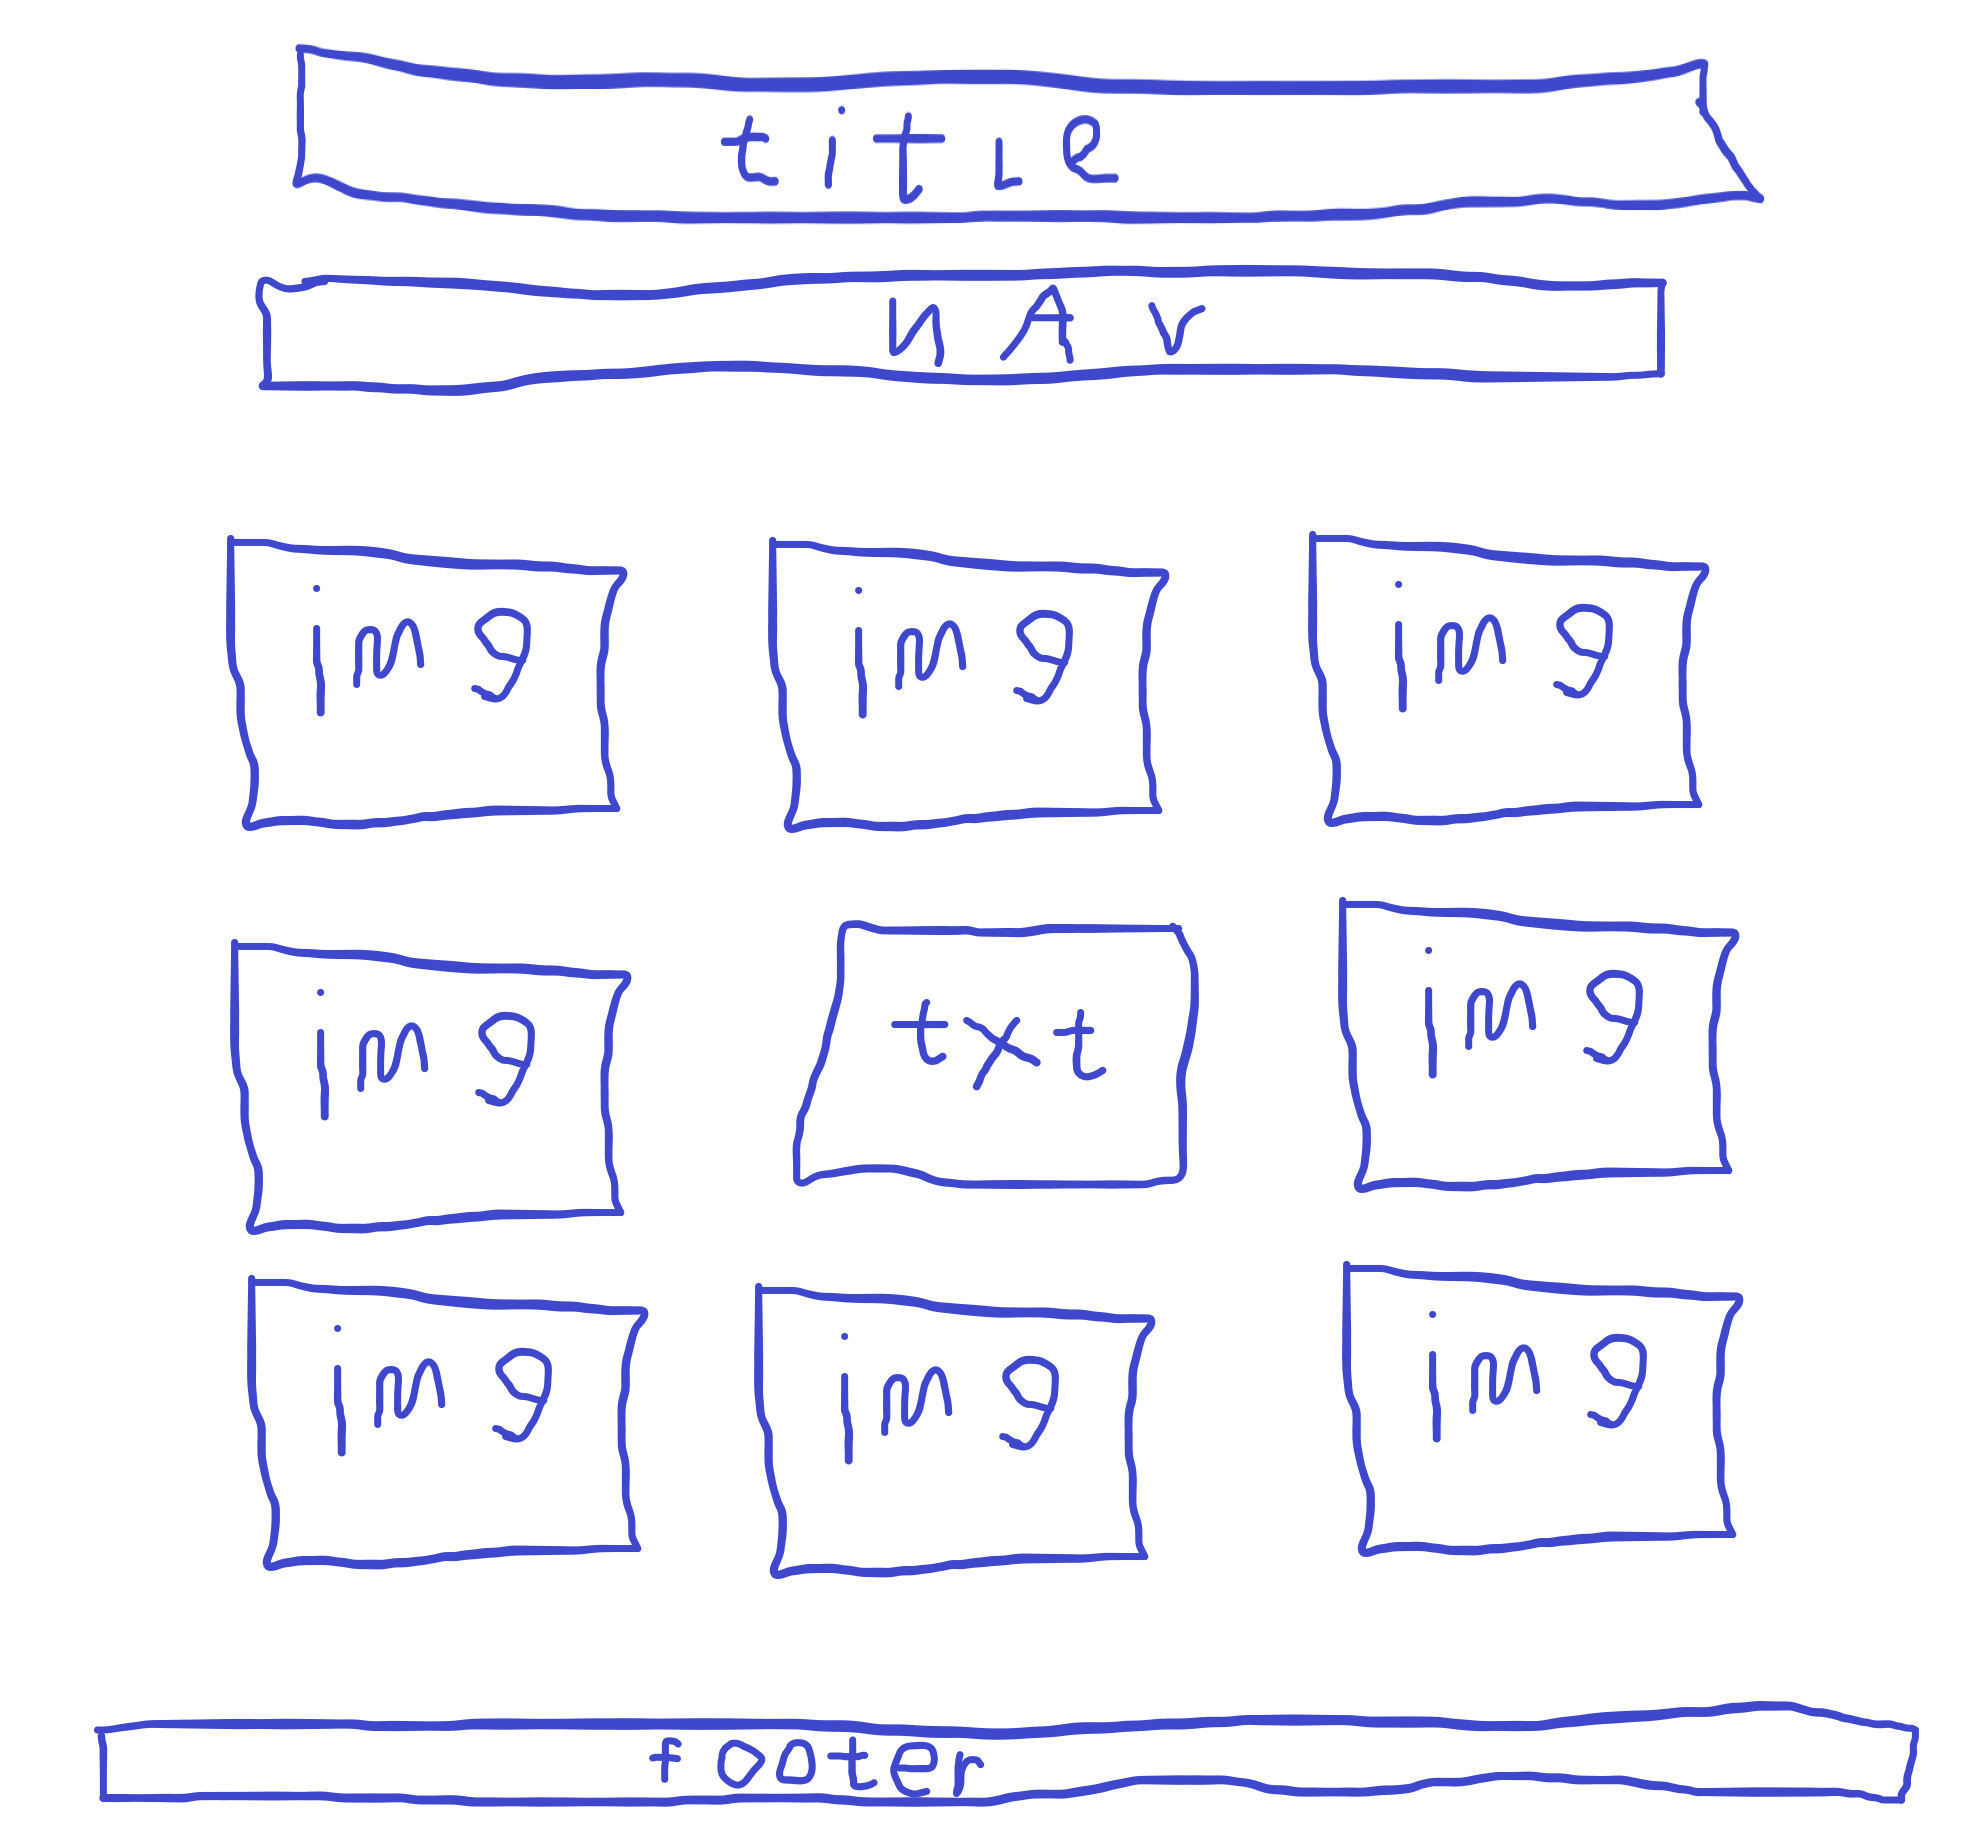
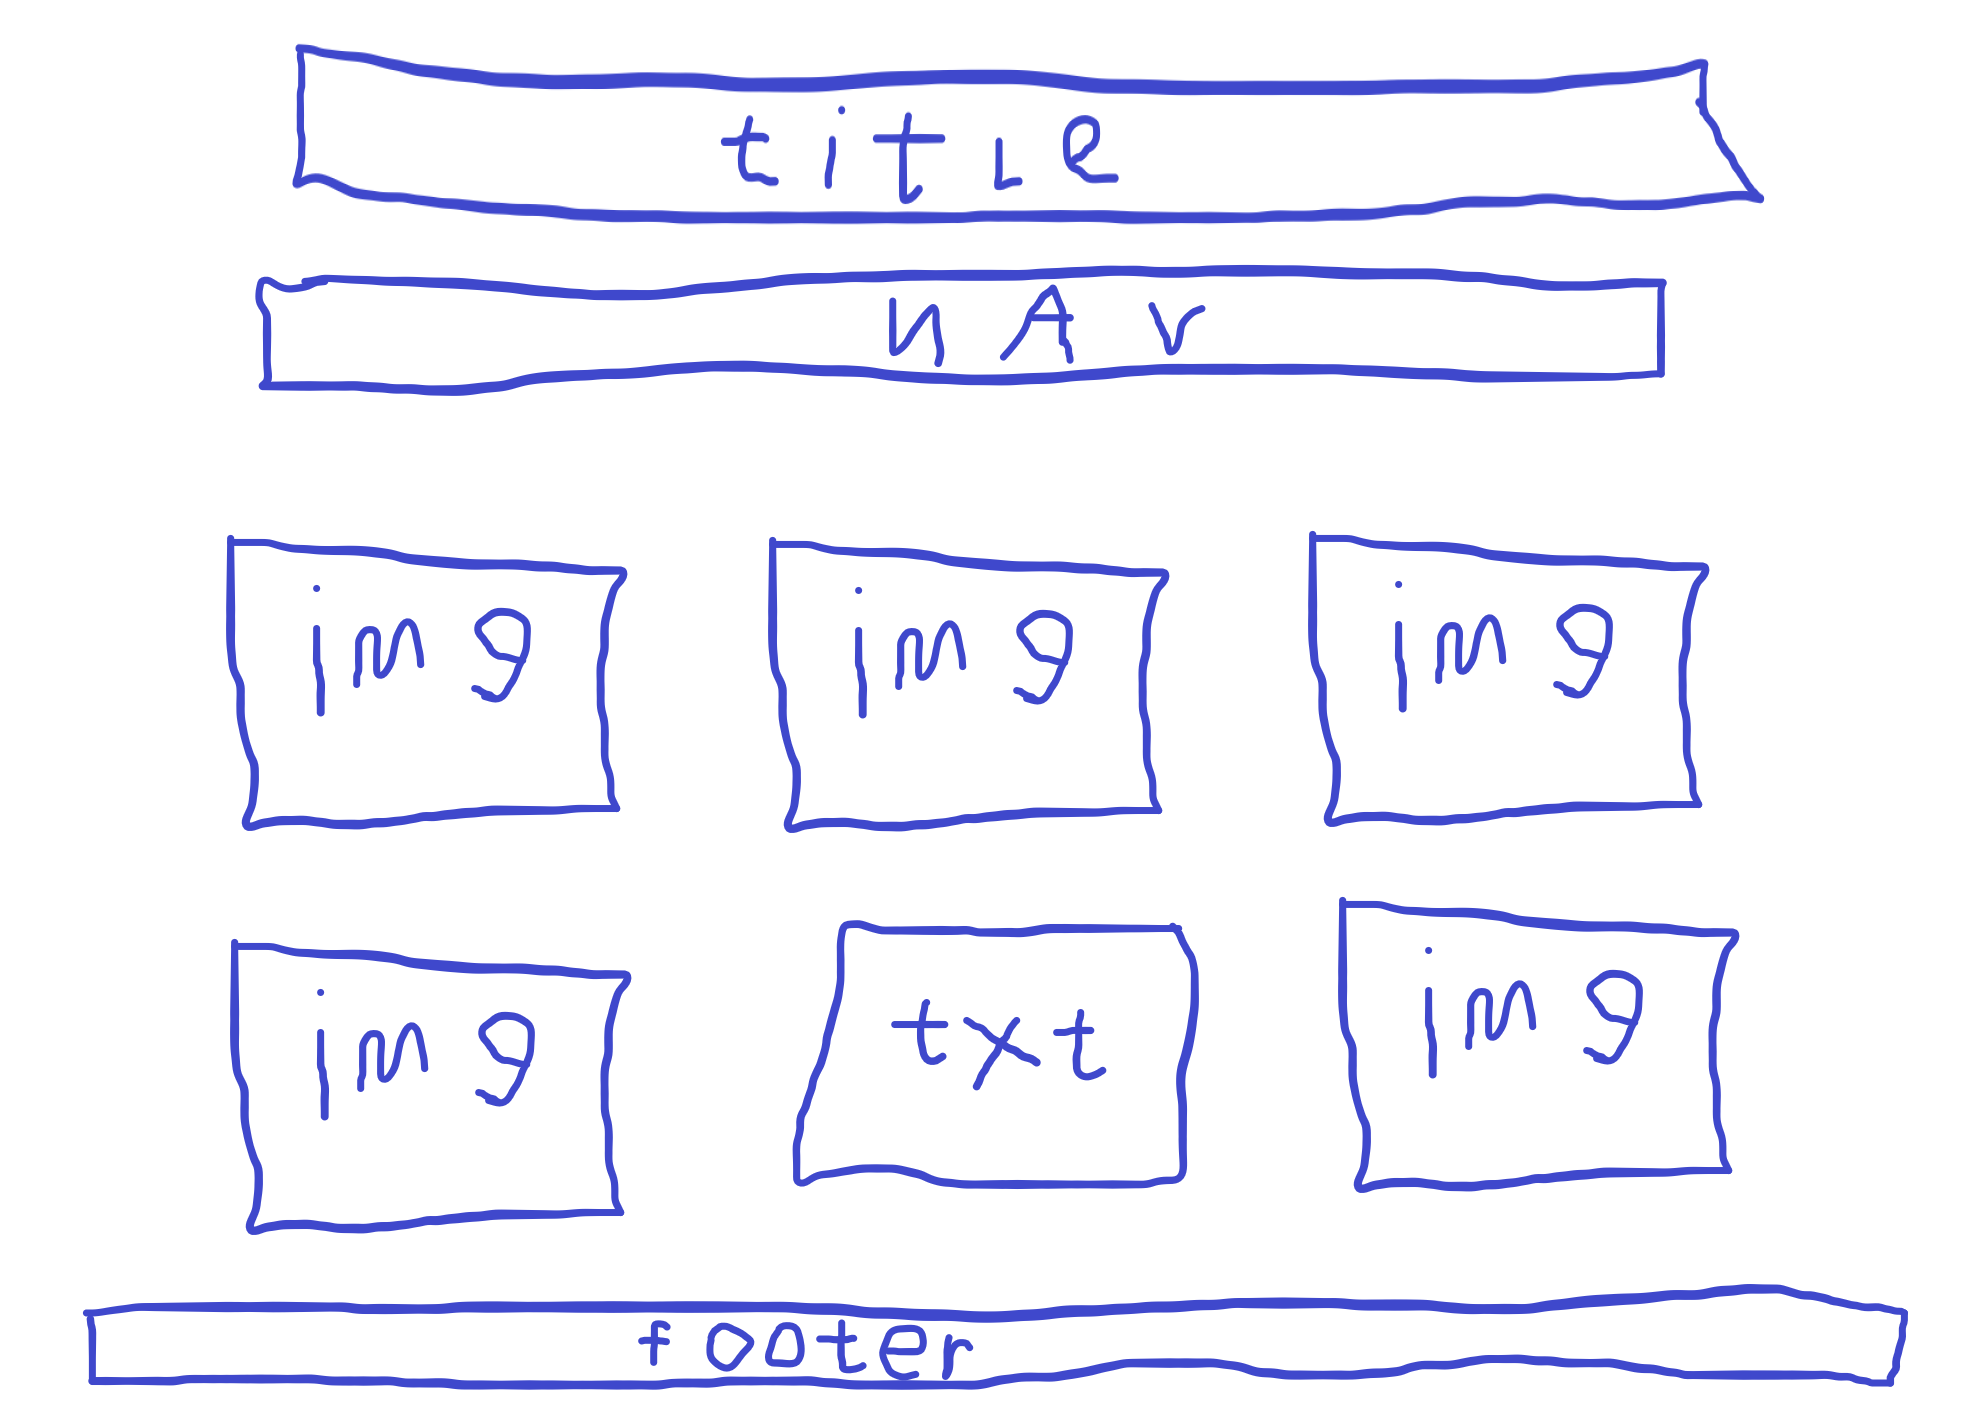
v4.9

Changed region(s): [[0.0932, 0.0, 0.9012, 0.8658], [0.0311, 0.8967, 0.9944, 0.9895], [0.0932, 0.6184, 0.3418, 0.8658]]

diff --git a/Happy Travel/access/css/main.css b/Happy Travel/access/css/main.css
@@ -5,7 +5,7 @@
 ::selection {
     background-color: rgba(88, 146, 255, 0.719);
 }
-.body_home, .body_ss {
+.body_home, .body_ss, #Contact body, .C_body {
     background-image: url("../img/bg_main/tropical_island_7-wallpaper-1920x1080.jpg");
     background-size: cover;
     background-size: auto;
@@ -34,7 +34,7 @@ p {
     background-color: rgba(245, 245, 245, 0.4);
     margin-bottom: 1.69%;
 }
-#Home .div1, .div2, .div3, .div4, .div5, .div6, #Stedentrips .div1, .div2, .div3, .div4, .div6 { /* Nav Div's + page control */
+.div1, #Home .div2, .div3, .div4, .div5, .div6, #Stedentrips .div1, .div2, .div3, .div4, .div6 { /* Nav Div's + page control */
     display: flex;
     color: white;
     text-shadow: 3px 3px 3px black;
@@ -61,7 +61,7 @@ p {
 a:link, a:visited, a:hover, a:active {
     text-decoration: none;
 }
- #Home a:hover, #Stedentrips a:hover {
+ #Home a:hover, #Stedentrips a:hover, #Contact a:hover {
     background-color: rgba(74, 74, 255, 0.863);
 }
 .mini_content { /* Mini Content */
@@ -71,8 +71,11 @@ a:link, a:visited, a:hover, a:active {
     justify-content: center;
     align-items: center;
 }
-.mini_content, .thumb_txt, .mini_img_txt_home, .main_content_ss_2 { /* Background-color text fields */
+.mini_content, .thumb_txt, .mini_img_txt_home, .main_content_ss_2, .mini_content_ss_mobile_box { /* Background-color text fields */
     background-color: rgba(0, 0, 0, 0.336);
+}
+.ss_imgs_mobile {
+    background-color: rgba(0, 0, 0, 0);
 }
 .mini_content_txt_big, .mini_content_txt_medium, #mini_content_ss {
     font-size: 1.6vw;
@@ -159,28 +162,37 @@ a:link, a:visited, a:hover, a:active {
     height: 20vw;
     background-size: 110%;
 }
-.ss_thumb1:hover, .ss_thumb2:hover, .ss_thumb3:hover, #main_content_ss_1:hover, #main_content_ss_3:hover {
+.ss_thumb1:hover, .ss_thumb2:hover, .ss_thumb3:hover, #main_content_ss_1:hover, #main_content_ss_3:hover, .ss_img_Maastricht:hover, .ss_img_Barcelona:hover, .ss_img_Londen:hover, .ss_img_Curacao:hover, .ss_img_NY:hover {
     border: 2px solid black;
 }
-.ss_thumb1 {
+.ss_thumb1, .ss_img_Maastricht {
     background-image: url("../img/img/maastricht.png");
 }
-.ss_thumb2 {
+.ss_thumb2, .ss_img_Barcelona {
     background-image: url("../img/img/barcelona.png");
     background-size: 119.3%;
 }
-.ss_thumb3 {
+.ss_thumb3, .ss_img_Londen {
     background-image: url("../img/img/londen.png");
 }
 #Stedentrips .div5 { /* Make the button "Stedentrips " invisable */
     display: none;
 }
-#Stedentrips #main_content_ss_1 {
+#Stedentrips #main_content_ss_1, .ss_img_Curacao {
     background-image: url("../img/img/curacao.png");
 }
-#Stedentrips #main_content_ss_3 {
+#Stedentrips #main_content_ss_3, .ss_img_NY {
     background-size: 123.5%;
     background-image: url("../img/img/NY.png");
+}
+.ss_imgs_mobile, .mini_content_ss_mobile_box {
+    display: none;
+}
+
+/* Contact-page */
+
+.C_body {
+    margin: 0px;
 }
 
 /* Mobile UI'S */
@@ -256,13 +268,51 @@ a:link, a:visited, a:hover, a:active {
     }
 
     /* Stedentrips-Mobile */
-
+    .p_ss {
+        font-size: 5.5vw;
+    }
     .body_ss {
         background-image: url("../img/bg_stedentrips/sunrise_at_san_francisco-wallpaper-1366x768.jpg");
     }
+    .ss_imgs, .main_content_ss {
+        display: none;
+    }
+    .ss_imgs_mobile {
+        background-color: rgba(0, 0, 0, 0.336);
+        margin-top: -73.4%;
+        display: flex;
+        justify-content: space-between;
+        align-items: center;
+        flex-direction: column;
+        width: 39vw;
+        height: 90vw;
+        margin-left: 59%;
+    }
+    .ss_img_Maastricht, .ss_img_Barcelona, .ss_img_Londen, .ss_img_Curacao, .ss_img_NY {
+        width: 36vw;
+        height: 31vw;
+        background-size: 100%;
+        margin-bottom: 2vw;
+    }
+    .ss_img_Londen {
+        margin-bottom: 1vw;
+    }
+    .ss_img_Maastricht {
+        margin-top: 1vw;
+    }
+    .mini_content_ss_mobile_box {
+        color: white;
+        display: block;
+        width: 55vw;
+        height: 18vw;
+        position: relative;
+        font-size: 2.2vw;
+        bottom: 20vw;
+        left: 0px;
+    }
 }
 @media (min-height: 800px) { /* stokbrood detection */
-    .body_home {
+    .body_home, .C_body {
         background-image: url("../img/bg_main/tropical_island_7-wallpaper-1217x1999.jpg");
     }
     .body_ss {
@@ -271,7 +321,7 @@ a:link, a:visited, a:hover, a:active {
 }
 /* lasagna detection */
 @media only screen and (min-width: 1280px) {
-    .body_home {
+    .body_home, .C_body {
         background-image: url("../img/bg_main/tropical_island_7-wallpaper-1366x768.jpg");
     }
     .body_ss {
@@ -279,7 +329,7 @@ a:link, a:visited, a:hover, a:active {
     }
 }
 @media only screen and (min-width: 1366px) {
-    .body_home {
+    .body_home, .C_body {
         background-image: url("../img/bg_main/tropical_island_7-wallpaper-1600x900.jpg");
     }
     .body_ss {
@@ -287,7 +337,7 @@ a:link, a:visited, a:hover, a:active {
     }
 }
 @media only screen and (min-width: 1600px) {
-    .body_home {
+    .body_home, .C_body {
         background-image: url("../img/bg_main/tropical_island_7-wallpaper-1920x1080.jpg");
     }
     .body_ss {
@@ -295,7 +345,7 @@ a:link, a:visited, a:hover, a:active {
     }
 }
 @media only screen and (min-width: 1920px) {
-    .body_home {
+    .body_home, .C_body {
         background-image: url("../img/bg_main/tropical_island_7-wallpaper-2048x1152.jpg");
     }
     .body_ss {
@@ -303,7 +353,7 @@ a:link, a:visited, a:hover, a:active {
     }
 }
 @media only screen and (min-width: 2048px) {
-    .body_home {
+    .body_home, .C_body {
         background-image: url("../img/bg_main/tropical_island_7-wallpaper-2400x1350.jpg");
     }
     .body_ss {
@@ -311,7 +361,7 @@ a:link, a:visited, a:hover, a:active {
     }
 }
 @media only screen and (min-height: 900px) {
-    .body_home {
+    .body_home, .C_body {
         background-image: url("../img/bg_main/tropical_island_7-wallpaper-2400x1350.jpg");
     }
     .body_ss {
@@ -319,7 +369,7 @@ a:link, a:visited, a:hover, a:active {
     }
 }
 @media only screen and (min-width: 2400px) {
-    .body_home {
+    .body_home, .C_body {
         background-image: url("../img/bg_main/tropical_island_7-wallpaper-2560x1440.jpg");
     }
     .body_ss {
@@ -327,7 +377,7 @@ a:link, a:visited, a:hover, a:active {
     }
 }
 @media only screen and (min-width: 2560px) {
-    .body_home {
+    .body_home, .C_body {
         background-image: url("../img/bg_main/tropical_island_7-wallpaper-2560x1440.jpg");
     }
     .body_ss {
@@ -335,7 +385,7 @@ a:link, a:visited, a:hover, a:active {
     }
 }
 @media (min-width: 2400px) {
-    .body_home {
+    .body_home, .C_body {
         background-image: url("../img/bg_main/tropical_island_7-wallpaper-6400x2400.jpg");
     }
     .body_ss {

diff --git a/Happy Travel/access/js/main.js b/Happy Travel/access/js/main.js
@@ -1,15 +1,25 @@
 function Barcelona() {
-    document.getElementById("mini_content_ss").innerHTML = "Barcelona ligt in Spanje en is een zonnige stad met veel inwoners. Geniet van het mooie weer, of cruse lekker met een boot door het water! Er valt ook genoeg te shoppen en te ontdekken! Dit is Barcelona. (Gidswandeling inbegrepen)";
+    var1 = "Barcelona ligt in Spanje en is een zonnige stad met veel inwoners. Geniet van het mooie weer, of cruse lekker met een boot door het water! Er valt ook genoeg te shoppen en te ontdekken! Dit is Barcelona. (Gidswandeling inbegrepen)";
+    document.getElementById("mini_content_ss").innerHTML = var1;
+    document.getElementById("mini_content_ss_mobile").innerHTML = var1;
 }
 function Maastricht() {
-    document.getElementById("mini_content_ss").innerHTML = "Maastricht ligt in Nederland en is een vrolijke en gezellige stad. Je kan er veel winkels bezoeken en er zijn vele activiteiten in de buurt, zoals de 'Grotten' van Valkenburg. Verder zijn er vele wandelroutes te belopen. Dit is Maastricht (Exclusief Gidswandeling)";
+    var1 = "Maastricht ligt in Nederland en is een vrolijke en gezellige stad. Je kan er veel winkels bezoeken en er zijn vele activiteiten in de buurt, zoals de 'Grotten' van Valkenburg. Verder zijn er vele wandelroutes te belopen. Dit is Maastricht (Exclusief Gidswandeling)";
+    document.getElementById("mini_content_ss").innerHTML = var1;
+    document.getElementById("mini_content_ss_mobile").innerHTML = var1;
 }
 function Londen() {
-    document.getElementById("mini_content_ss").innerHTML = "Londen ligt in 'The UK' en is een drukke en bekende stad. Londen heeft veel geschiedenis en er valt daar van alles te beleven. Zo heb je 'The London Eye.' Dat is een reuzenrad wat een van de grootsten van europa is. Je kan overal wel in een kroeg komen in Londen. Dit is Londen. (Gidswandeling inbegrepen)";
+    var1 = "Londen ligt in 'The UK' en is een drukke en bekende stad. Londen heeft veel geschiedenis en er valt daar van alles te beleven. Zo heb je 'The London Eye.' Dat is een reuzenrad wat een van de grootsten van europa is. Je kan overal wel in een kroeg komen in Londen. Dit is Londen. (Gidswandeling inbegrepen)";
+    document.getElementById("mini_content_ss").innerHTML = var1;
+    document.getElementById("mini_content_ss_mobile").innerHTML = var1;
 }
 function Curacao() {
-    document.getElementById("mini_content_ss").innerHTML = "Curacao is een zonnig eiland geschikt voor tourisme. Er zijn er veel mooie hotels en bouwwerken te vinden. Je kan er zwemmen. Dit is Curacao. (Exclusief gidswandeling)";
+    var1 = "Curacao is een zonnig eiland geschikt voor tourisme. Er zijn er veel mooie hotels en bouwwerken te vinden. Je kan er zwemmen. Dit is Curacao. (Exclusief gidswandeling)";
+    document.getElementById("mini_content_ss").innerHTML = var1;
+    document.getElementById("mini_content_ss_mobile").innerHTML = var1;
 }
 function NY() {
-    document.getElementById("mini_content_ss").innerHTML = "NewYork is een stad in Amerika. De stad heeft veel geschiedenis en is hypermodern. Zo heb je er veel kantoren en veel flat's. NewYork is echt een drukke en grote stad waar ook veel restaurantz zijn en waar ook overal wel wat te beleven valt. Dit is NewYork. (Gidswandeling inbegrepen)";
+    var1 = "NewYork is een stad in Amerika. De stad heeft veel geschiedenis en is hypermodern. Zo heb je er veel kantoren en veel flat's. NewYork is echt een drukke en grote stad waar ook veel restaurantz zijn en waar ook overal wel wat te beleven valt. Dit is NewYork. (Gidswandeling inbegrepen)";
+    document.getElementById("mini_content_ss").innerHTML = var1;
+    document.getElementById("mini_content_ss_mobile").innerHTML = var1;
 }

diff --git a/Happy Travel/stedentrips.html b/Happy Travel/stedentrips.html
@@ -28,8 +28,16 @@
             <div class="main_content_ss_2"><p id="mini_content_ss">Klik op de afbeeldingen om u te laten informeren over de stedentrips! Heeft u iets leuks gezien? ga dan snel naar "Tickets"</p></div>
             <div id="main_content_ss_3" title="NewYork" onclick="NY()"></div>
         </div>
+        <div class="ss_imgs_mobile"> <!-- mob. layout -->
+            <div class="ss_img_Maastricht" title="Maastricht" onclick="Maastricht()"></div>
+            <div class="ss_img_Barcelona" title="Barcelona" onclick="Barcelona()"></div>
+            <div class="ss_img_Curacao" title="Curacao" onclick="Curacao()"></div>
+            <div class="ss_img_NY" title="NewYork" onclick="NY()"></div>
+            <div class="ss_img_Londen" title="Londen" onclick="Londen()"></div>
+        </div>
+        <div class="mini_content_ss_mobile_box"><p id="mini_content_ss_mobile">Klik op de afbeeldingen om u te laten informeren over de stedentrips! Heeft u iets leuks gezien? ga dan snel naar "Tickets"</p></div>
         <div class="footer"> <!-- Footer -->
-            <p>Voor vragen of suggesties, klik <a href="#contact" class="contact_lnk">"hier!"&nbsp&nbsp</a></p>
+            <p>Voor vragen of suggesties, klik <a href="contact.html" class="contact_lnk">"hier!"&nbsp&nbsp</a></p>
         </div>
     </body>
 </html>

diff --git a/Happy Travel/contact.html b/Happy Travel/contact.html
@@ -6,4 +6,25 @@
         <script src="access/js/main.js"></script> <!-- externe js -->
         <link rel="short icon" href="access/img/favicon.ico">
     </head>
+    <body class="C_body">
+        <p class="top_title">Contact</p>
+        <div class="nav_bar"> <!--Nav bar-->
+            <a href="https://google.com" target="_self" class="div1">Zonvakanties</a>
+            <a href="https://google.com" target="_self" class="div2">Verre reizen</a>
+            <a href="https://google.com" target="_self" class="div3">Tickets</a>
+            <a href="https://google.com" target="_self" class="div4">Last minute</a>
+            <a href="stedentrips.html" target="_self" class="div5">Stedentrips</a>
+            <a href="index.html" target="_self" class="div6">Home</a>
+        </div>
+        <form method="POST" action="mailto:wiegerschoolmail@labworld.org" enctype="multipart/form-data">
+            <br>
+            Naam:<textarea rows="1" cols="20" name="name" required></textarea>
+            <br>
+            Mail:&nbsp&nbsp<textarea rows="1" cols="25" name="mail" required></textarea>
+            <br>
+            suggestie:<textarea rows="10" cols="20" name="suggestie" required></textarea>
+            <br>
+            <input type="submit" value="Verzenden">
+        </form>
+    </body>
 </html>

diff --git a/Happy Travel/index.html b/Happy Travel/index.html
@@ -23,7 +23,7 @@
                 Dit komt door onze focus op de kwaliteit van het vliegen, bijvoorbeeld de werkomstandigheden van het personeel.</span></p>
         </div>
         <div class="footer"> <!-- Footer -->
-            <p>Voor vragen of suggesties, klik <a href="#contact" class="contact_lnk">"hier!"&nbsp&nbsp</a></p>
+            <p>Voor vragen of suggesties, klik <a href="contact.html" class="contact_lnk">"hier!"&nbsp&nbsp</a></p>
         </div>
         <div class="imgs_home"> <!-- Foto's -->
             <div class="thumb1" title="Finland"></div>
